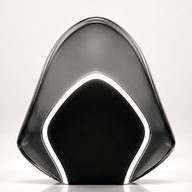
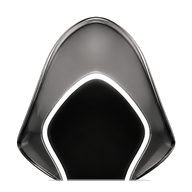
логотип: убран белый фон, тень и отражение — прозрачный PNG
logo-64, favicon-32, icon-192, icon-512, apple-touch-icon переведены
в RGBA. Скругление у img в шапке снято: оно скрывало белый квадрат.

Claude-Session: https://claude.ai/code/session_01LzWbufJ76N8EdWz7uAm1JD

Changed region(s): [[0.0938, 0.9062, 0.9062, 1.0], [0.0, 0.3438, 0.1562, 0.6875], [0.875, 0.4062, 1.0, 0.7188]]

diff --git a/web/src/App.jsx b/web/src/App.jsx
@@ -337,7 +337,7 @@ export default function App() {
         <div className="container header-inner">
           <a className="logo" href="#/" aria-label="hood">
             <img src="./logo-64.png" alt="" width="32" height="32"
-                 style={{ borderRadius: 9, display: "block" }} />
+                 style={{ display: "block" }} />
             <span className="logo-word">HOOD</span>
             <span className="logo-beta">beta</span>
           </a>
